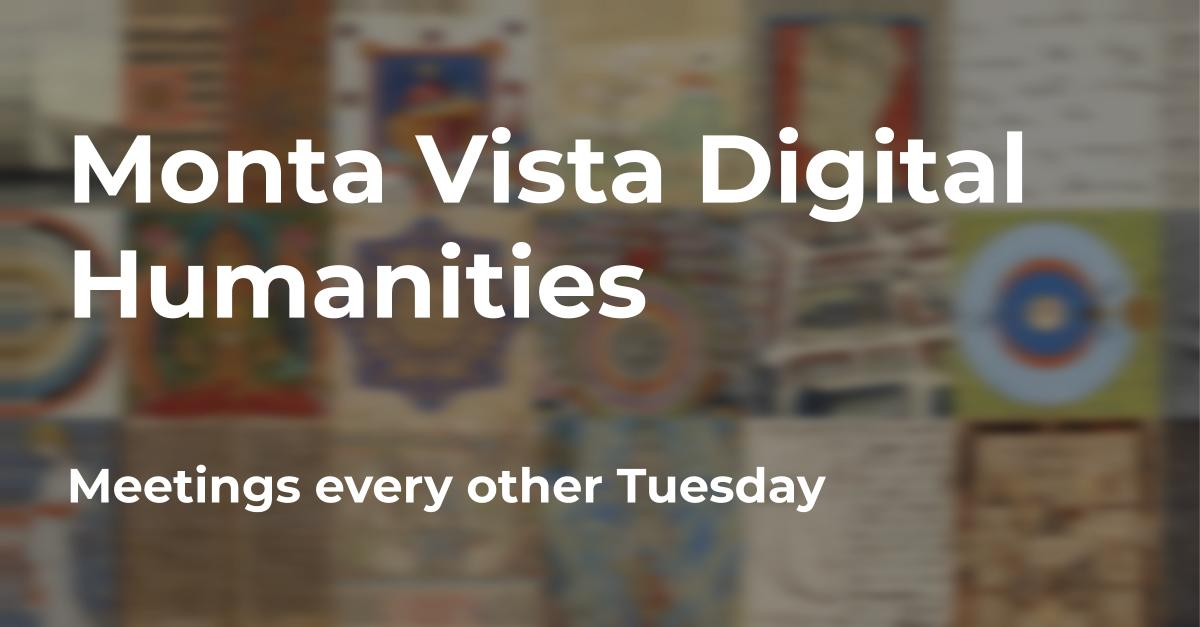
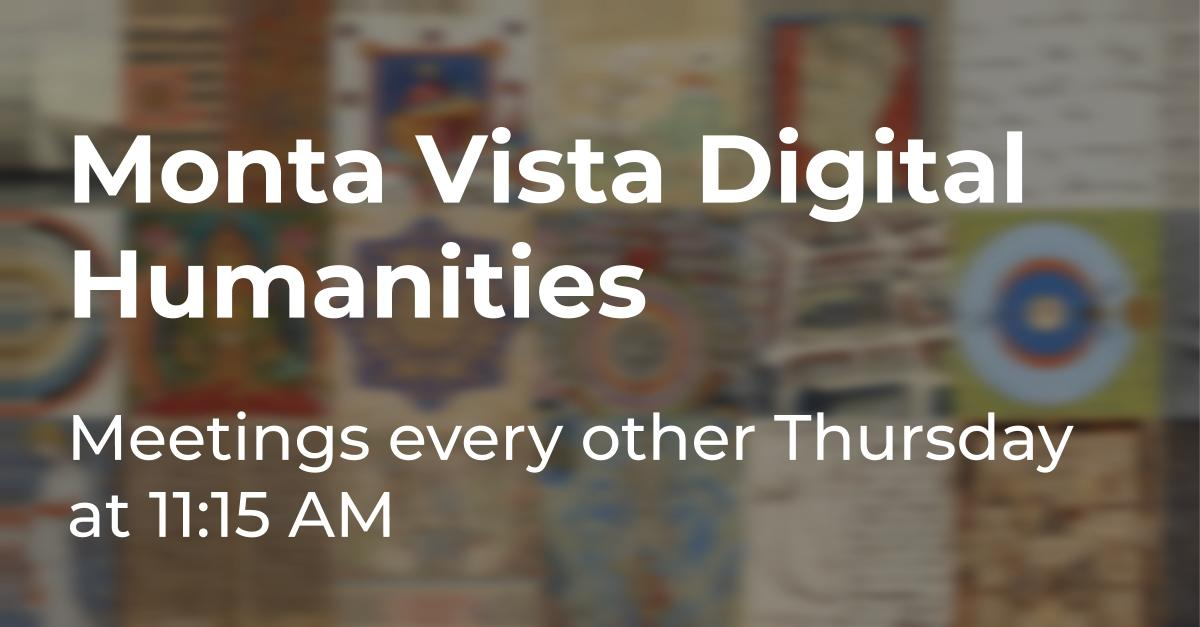
tweak texts, update time to Thursday

Changed region(s): [[0.0308, 0.6364, 0.8942, 0.8788]]

diff --git a/app/src/components/Layout.js b/app/src/components/Layout.js
@@ -12,7 +12,7 @@ export default function Layout({ children, title }) {
         <title>{title ? `MVDH | ${title}` : 'MVDH'}</title>
         <meta
           name="description"
-          content="Monta Vista Digital Humanities Club hosts meetings every Tuesday in Room A204 (or online). Digital Humanities is a rising interdisciplinary field based on the study of art, culture, literature, etc. using modern digital tools."
+          content="Monta Vista Digital Humanities is a club dedicated to Digital Humanities: a rising interdisciplinary field based on the study of art, culture, literature, etc. using modern digital tools."
         />
         <meta
           name="viewport"
@@ -26,7 +26,7 @@ export default function Layout({ children, title }) {
         />
         <meta
           property="og:description"
-          content="MVDH meets every Tuesday in Room A204 (or online). Digital Humanities is a rising interdisciplinary field based on the study of art, culture, literature, etc. using modern digital tools."
+          content="MVDH meets every other Thursday at 11:15 AM online. Digital Humanities is a rising interdisciplinary field based on the study of art, culture, literature, etc. using modern digital tools."
         />
 
         <link

diff --git a/app/src/components/home/LandingCard.js b/app/src/components/home/LandingCard.js
@@ -21,7 +21,7 @@ export default function LandingCard() {
             <h1 className="text-5xl font-medium leading-tight mb-4">
               Monta Vista Digital Humanities
             </h1>
-            <h2 className="text-2xl">Every other Tuesday at lunch in A204</h2>
+            <h2 className="text-2xl">Every other Thursday at lunch in A204</h2>
           </div>
           <div className="flex-none">
             <button
@@ -52,6 +52,10 @@ export default function LandingCard() {
               </svg>
             </a>
           </div>
+          <p className="flex-none my-2 max-w-sm text-sm text-primary-800">
+            Join our mailing list to receive updates on club info and upcoming
+            meetings!
+          </p>
           <div
             className="mt-12 transition-all duration-700 ease-in-out overflow-hidden"
             style={{

diff --git a/app/src/components/team/TeamCard.js b/app/src/components/team/TeamCard.js
@@ -2,7 +2,7 @@ import React from 'react';
 
 export default function TeamCard({ image, name, job, description }) {
   return (
-    <div className="flex-auto flex flex-row items-stretch mb-8 bg-primary-100 rounded-lg shadow">
+    <div className="flex-auto flex flex-row items-center mb-8 bg-primary-100 rounded-lg shadow">
       <div className="flex-none h-full rounded-full p-3">
         <img
           src={image}
@@ -15,7 +15,7 @@ export default function TeamCard({ image, name, job, description }) {
           {name}
         </h2>
         <h3 className="text-primary-700 font-light text-sm">{job}</h3>
-        <p className="mt-2 text-sm leading-tight sm:leading-snug">
+        <p className="my-2 text-sm leading-tight sm:leading-snug">
           {description}
         </p>
       </div>

diff --git a/app/src/components/home/Slideshow.js b/app/src/components/home/Slideshow.js
@@ -182,7 +182,7 @@ export default function Slideshow() {
   return (
     <div className="mt-8 lg:mt-0">
       <div className="text-center text-lg font-light mb-2">
-        Read more about our projects
+        Projects we will discuss this year:
       </div>
 
       <WithImageData withImageData={imgData => <Slides imgData={imgData} />} />
